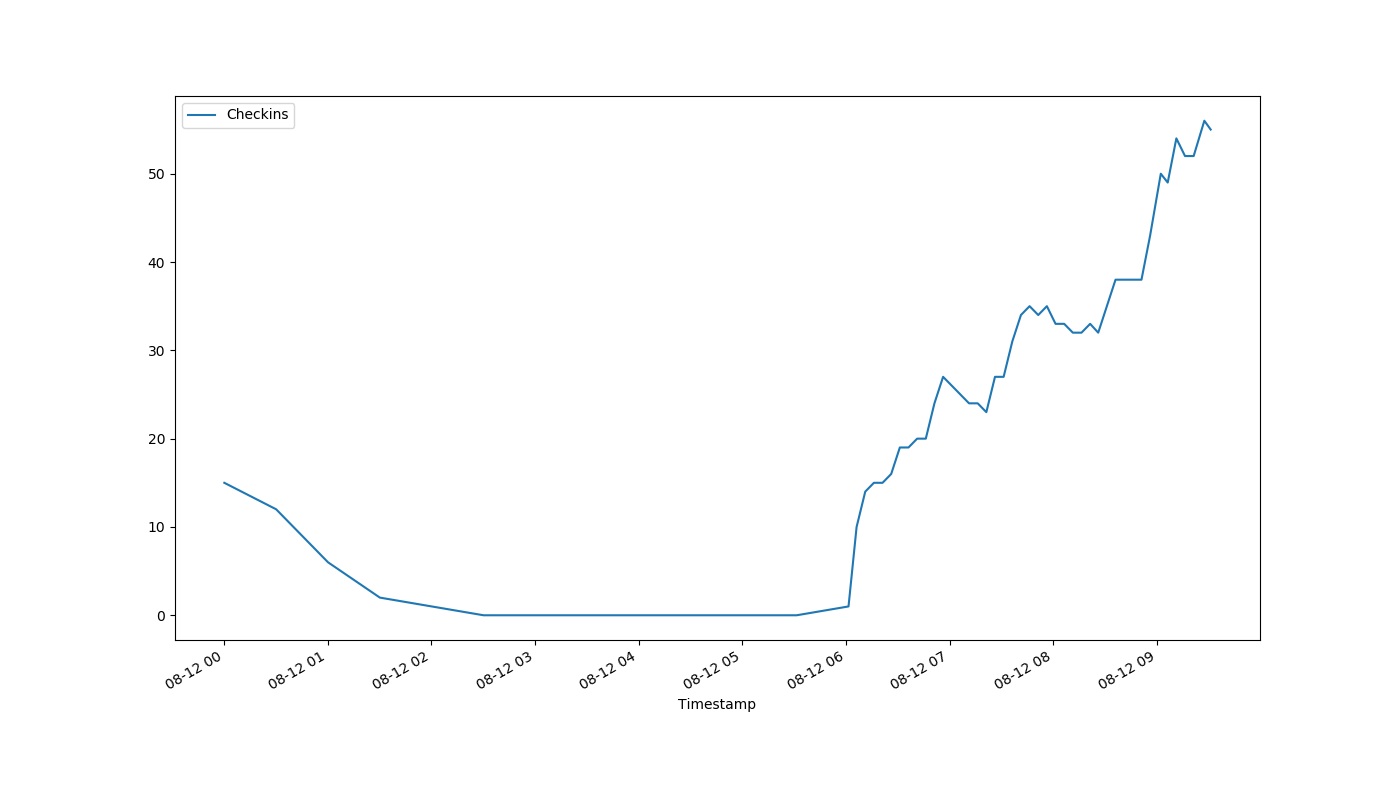
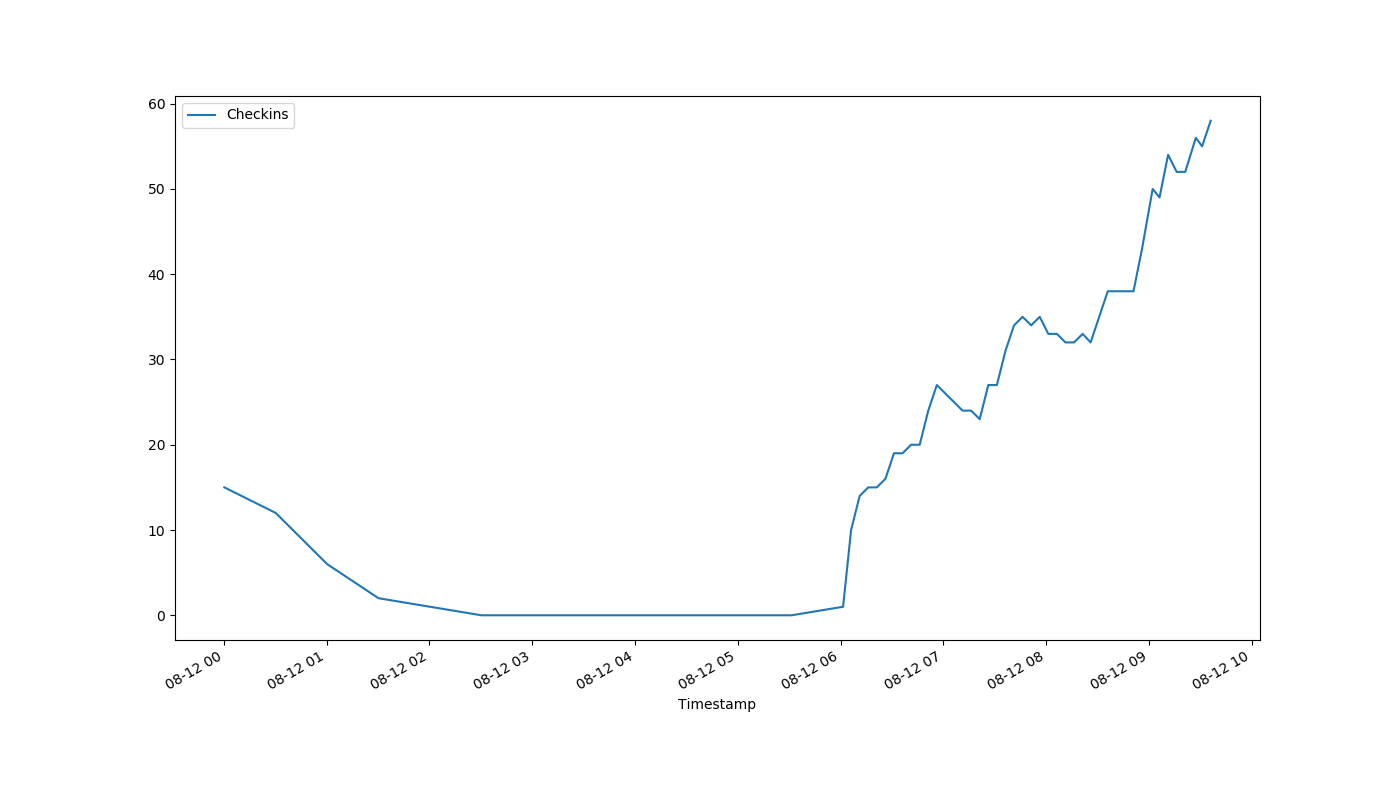
auto-Aug-12-09:36:25

diff --git a/index.html b/index.html
@@ -1,1 +1,1 @@
-<!DOCTYPE html><html><head><meta http-equiv="refresh" content="30"><link rel='stylesheet' href='holmcurrent.css'></head><body><p id='count'>55</p><div id='graph-wrap'><img id='graph' src='holmgraph-Aug-12.png'></div><p id='updated'>Last updated 09:31:18 / 09:31:05</p></body></html>
+<!DOCTYPE html><html><head><meta http-equiv="refresh" content="30"><link rel='stylesheet' href='holmcurrent.css'></head><body><p id='count'>58</p><div id='graph-wrap'><img id='graph' src='holmgraph-Aug-12.png'></div><p id='updated'>Last updated 09:36:18 / 09:36:05</p></body></html>
